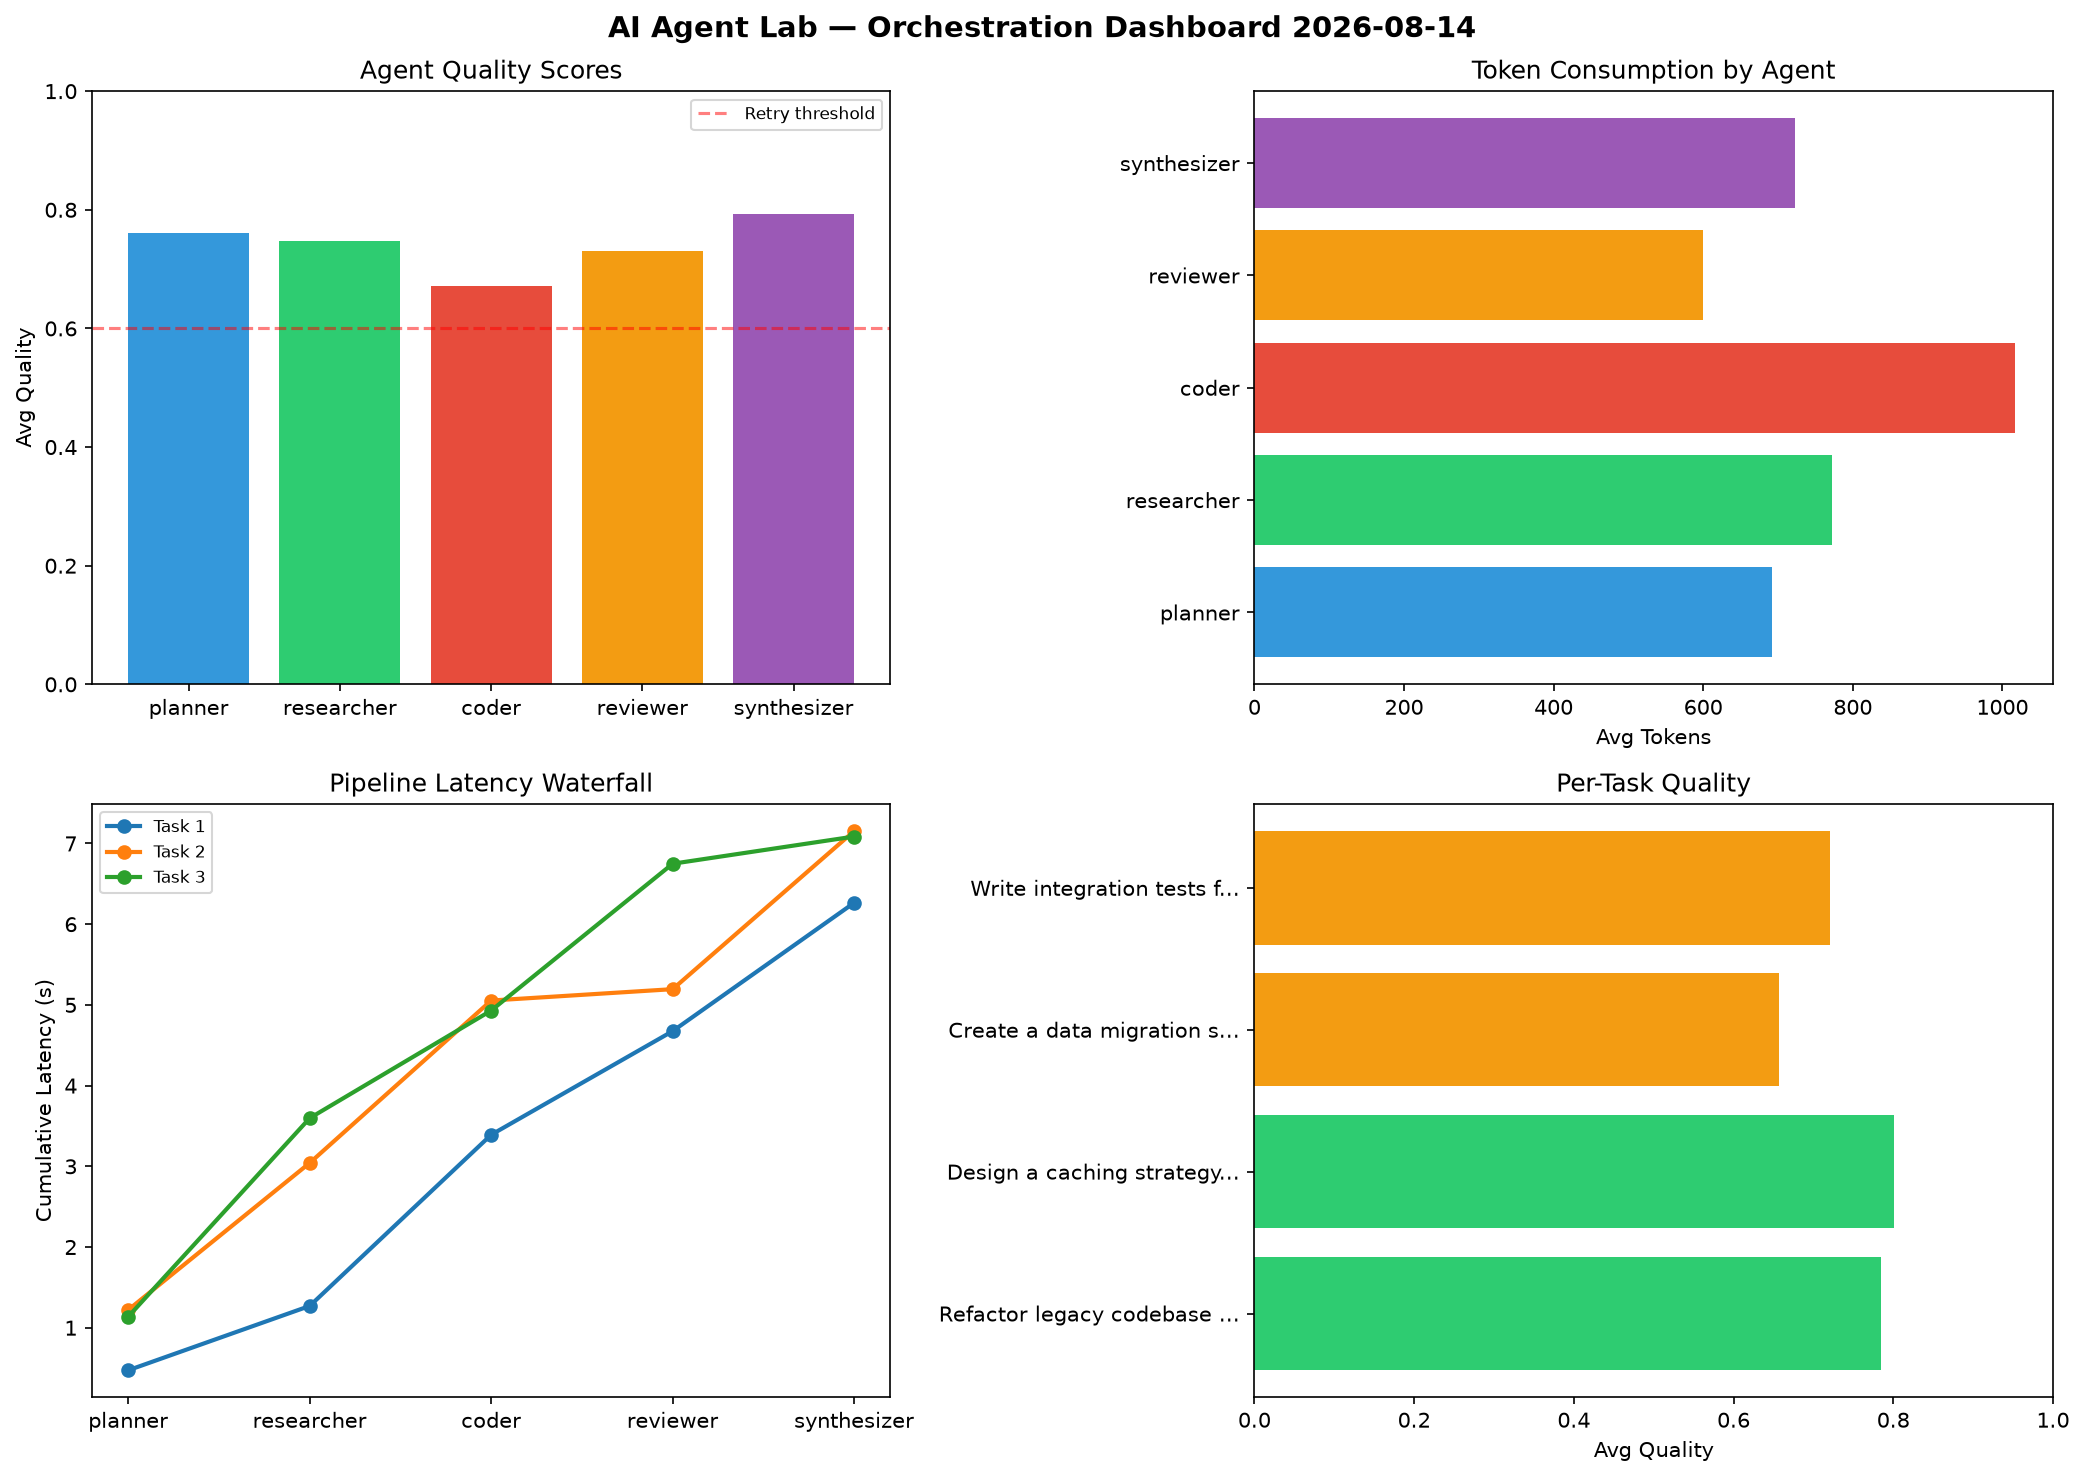
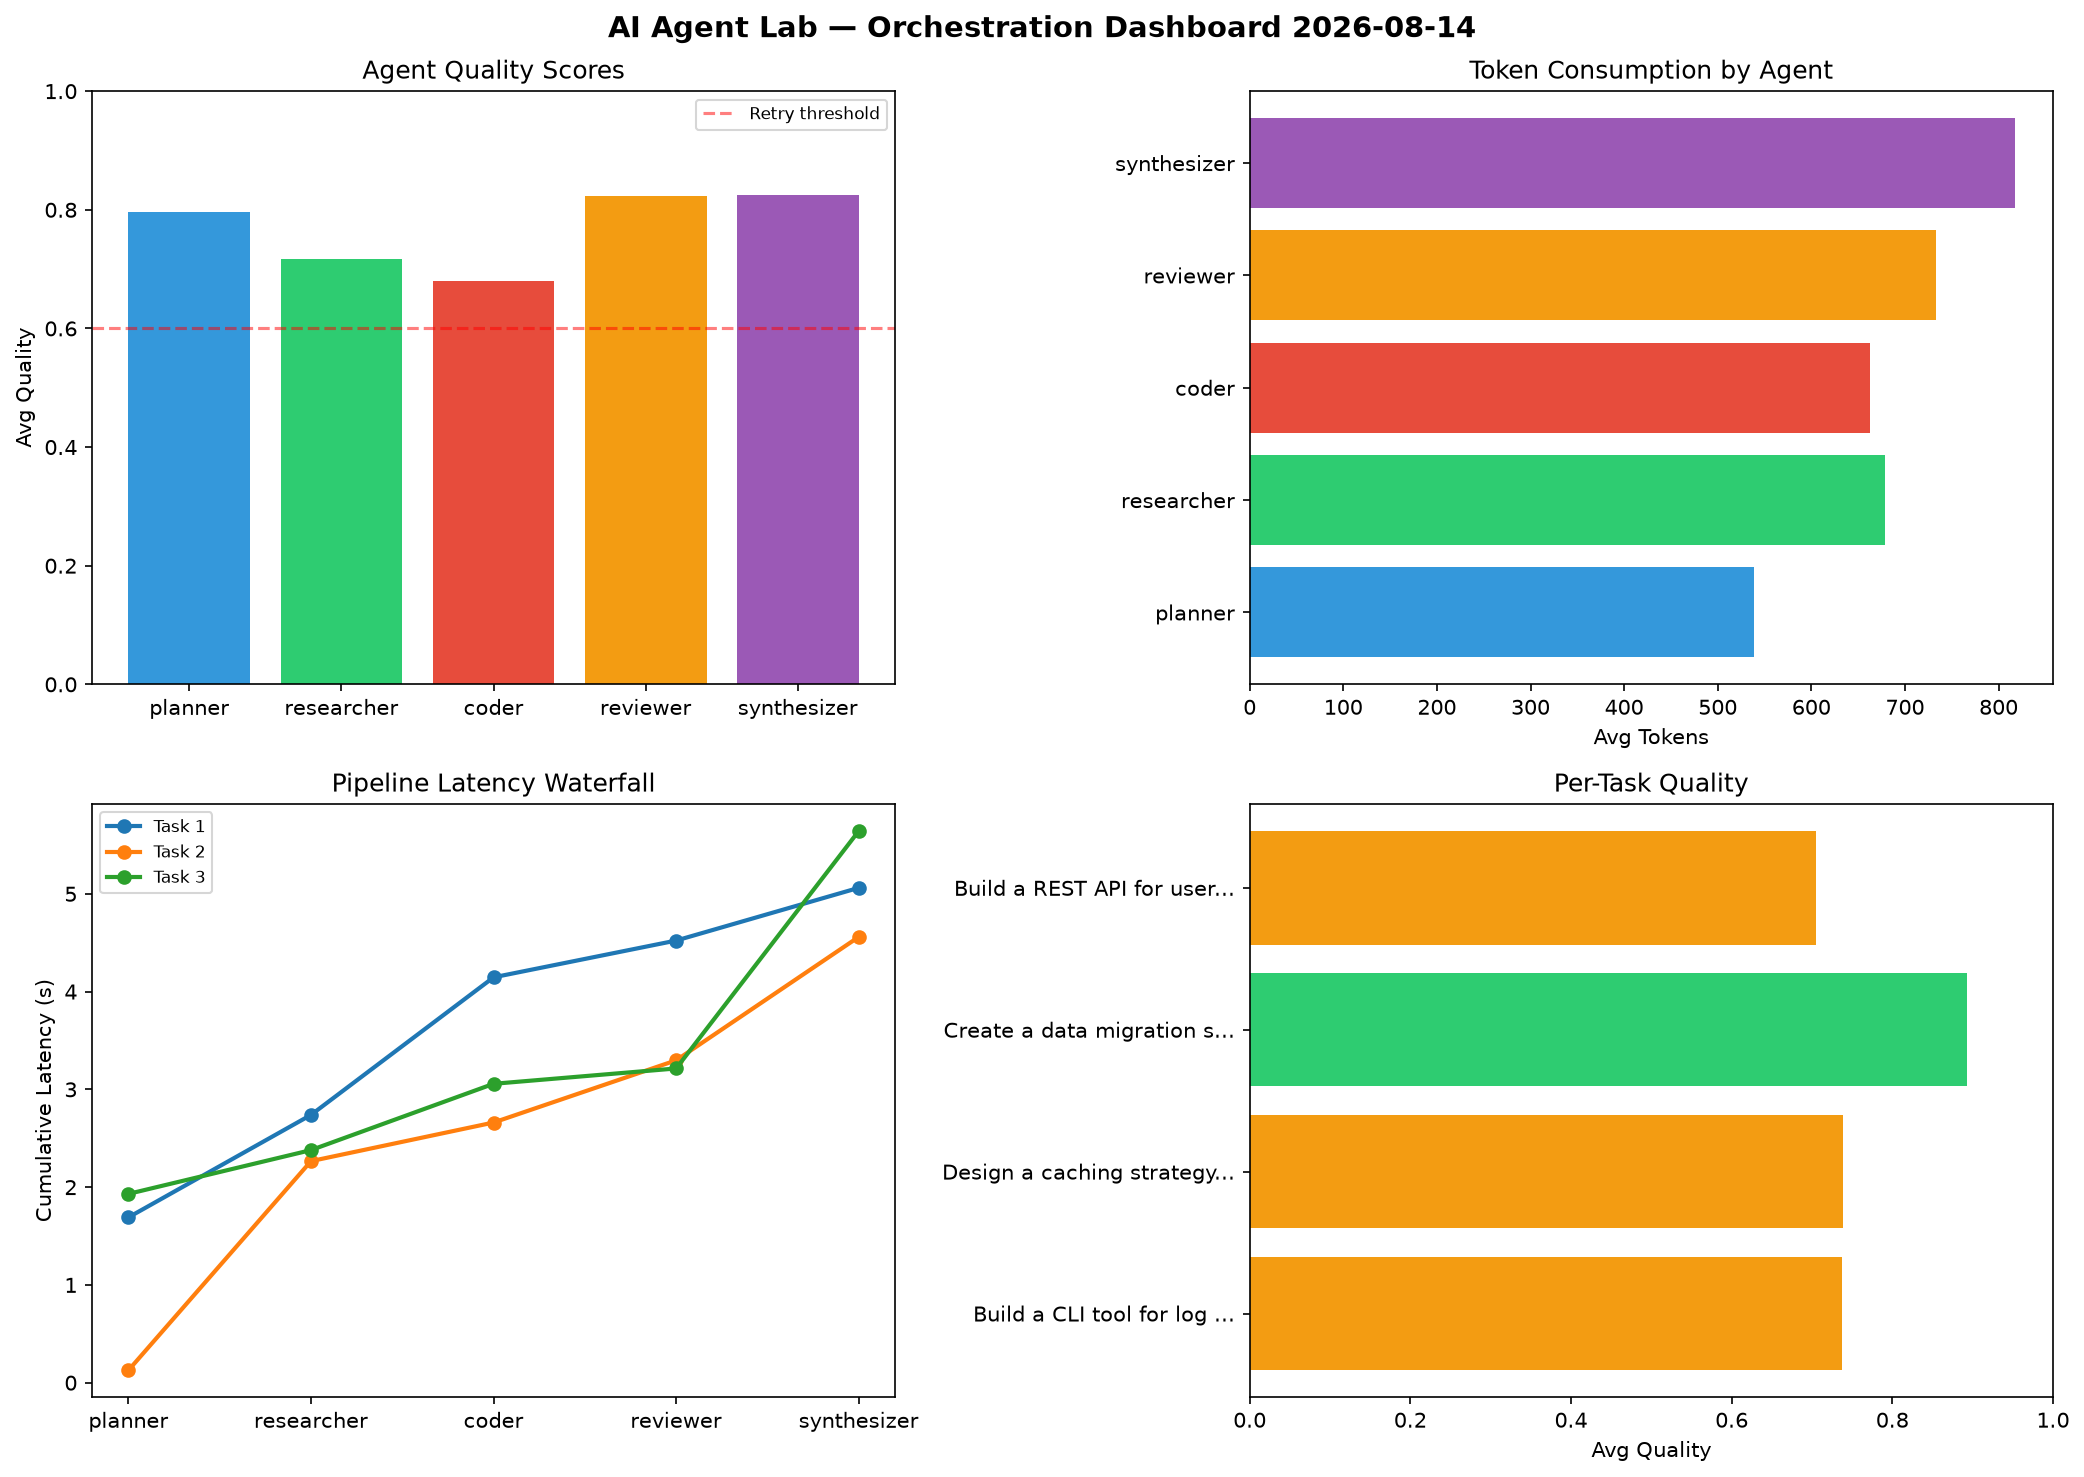
ai-agent-lab: orchestration run 2026-08-14T15:08

diff --git a/logs/2026-08-14.md b/logs/2026-08-14.md
@@ -1,6 +1,6 @@
 # AI Agent Lab — Orchestration Report 2026-08-14
 
-**Run ID:** `d355f0fcca` | **Tasks:** 4 | **Avg Quality:** 0.741
+**Run ID:** `3da07d27d8` | **Tasks:** 4 | **Avg Quality:** 0.768
 
 ![Dashboard](2026-08-14_dashboard.png)
 
@@ -8,52 +8,52 @@
 
 | Metric | Value |
 |--------|-------|
-| avg_latency | 6.995 |
-| total_tokens | 15205 |
-| avg_quality | 0.741 |
+| avg_latency | 5.434 |
+| total_tokens | 13722 |
+| avg_quality | 0.768 |
 
 ## Delta vs Yesterday
 
 | Metric | Today | Yesterday | Change |
 |--------|-------|-----------|--------|
-| avg_latency | 6.995 | 6.553 | 📈 6.7% |
-| total_tokens | 15205 | 14768 | 📈 3.0% |
-| avg_quality | 0.741 | 0.745 | 📉 -0.5% |
+| avg_latency | 5.434 | 6.553 | 📉 -17.1% |
+| total_tokens | 13722 | 14768 | 📉 -7.1% |
+| avg_quality | 0.768 | 0.745 | 📈 3.1% |
 
 ## Pipeline Results
 
-### Refactor legacy codebase to use dependency injection
+### Build a CLI tool for log analysis
 | Agent | Quality | Latency | Tokens | Status |
 |-------|---------|---------|--------|--------|
-| planner | 0.537 | 0.473s | 548 | needs_retry |
-| researcher | 0.973 | 0.797s | 1127 | success |
-| coder | 0.714 | 2.121s | 1229 | success |
-| reviewer | 0.964 | 1.284s | 402 | success |
-| synthesizer | 0.73 | 1.59s | 854 | success |
+| planner | 0.816 | 1.691s | 445 | success |
+| researcher | 0.86 | 1.048s | 994 | success |
+| coder | 0.631 | 1.407s | 326 | success |
+| reviewer | 0.81 | 0.376s | 682 | success |
+| synthesizer | 0.566 | 0.539s | 720 | needs_retry |
 
 ### Design a caching strategy for high-traffic endpoints
 | Agent | Quality | Latency | Tokens | Status |
 |-------|---------|---------|--------|--------|
-| planner | 0.903 | 1.221s | 968 | success |
-| researcher | 0.749 | 1.821s | 734 | success |
-| coder | 0.862 | 2.012s | 1193 | success |
-| reviewer | 0.523 | 0.141s | 723 | needs_retry |
-| synthesizer | 0.97 | 1.959s | 490 | success |
+| planner | 0.824 | 0.127s | 258 | success |
+| researcher | 0.594 | 2.139s | 648 | needs_retry |
+| coder | 0.591 | 0.395s | 296 | needs_retry |
+| reviewer | 0.913 | 0.636s | 634 | success |
+| synthesizer | 0.775 | 1.262s | 1110 | success |
 
 ### Create a data migration script for schema v2
 | Agent | Quality | Latency | Tokens | Status |
 |-------|---------|---------|--------|--------|
-| planner | 0.82 | 1.137s | 926 | success |
-| researcher | 0.516 | 2.46s | 952 | needs_retry |
-| coder | 0.603 | 1.333s | 725 | success |
-| reviewer | 0.53 | 1.819s | 746 | needs_retry |
-| synthesizer | 0.817 | 0.337s | 949 | success |
+| planner | 0.783 | 1.931s | 629 | success |
+| researcher | 0.826 | 0.448s | 413 | success |
+| coder | 0.902 | 0.678s | 978 | success |
+| reviewer | 0.981 | 0.157s | 931 | success |
+| synthesizer | 0.974 | 2.428s | 691 | success |
 
-### Write integration tests for payment processing module
+### Build a REST API for user authentication
 | Agent | Quality | Latency | Tokens | Status |
 |-------|---------|---------|--------|--------|
-| planner | 0.786 | 1.36s | 323 | success |
-| researcher | 0.749 | 1.876s | 273 | success |
-| coder | 0.51 | 0.446s | 920 | needs_retry |
-| reviewer | 0.908 | 2.012s | 528 | success |
-| synthesizer | 0.652 | 1.779s | 595 | success |
+| planner | 0.762 | 2.42s | 824 | success |
+| researcher | 0.589 | 1.211s | 658 | needs_retry |
+| coder | 0.596 | 1.252s | 1052 | needs_retry |
+| reviewer | 0.592 | 0.179s | 685 | needs_retry |
+| synthesizer | 0.985 | 1.41s | 748 | success |
